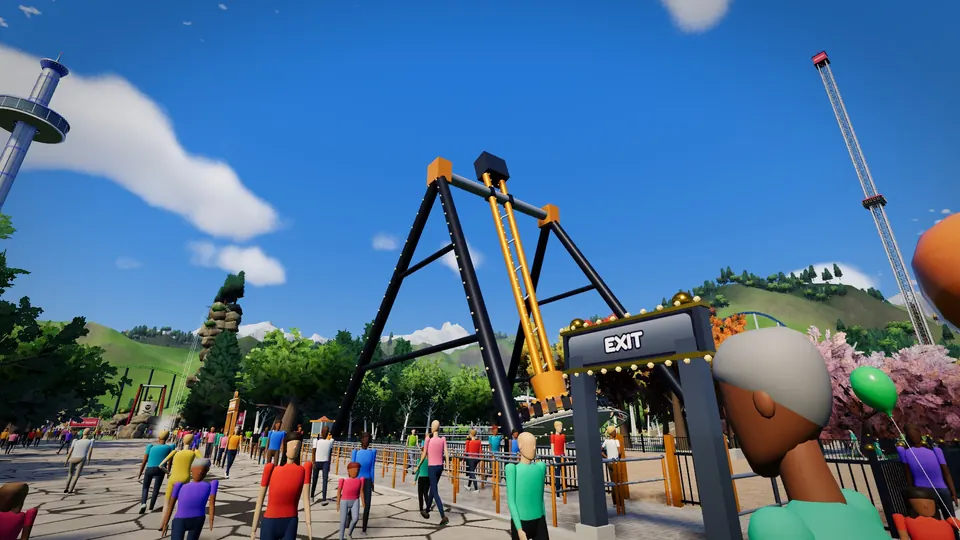
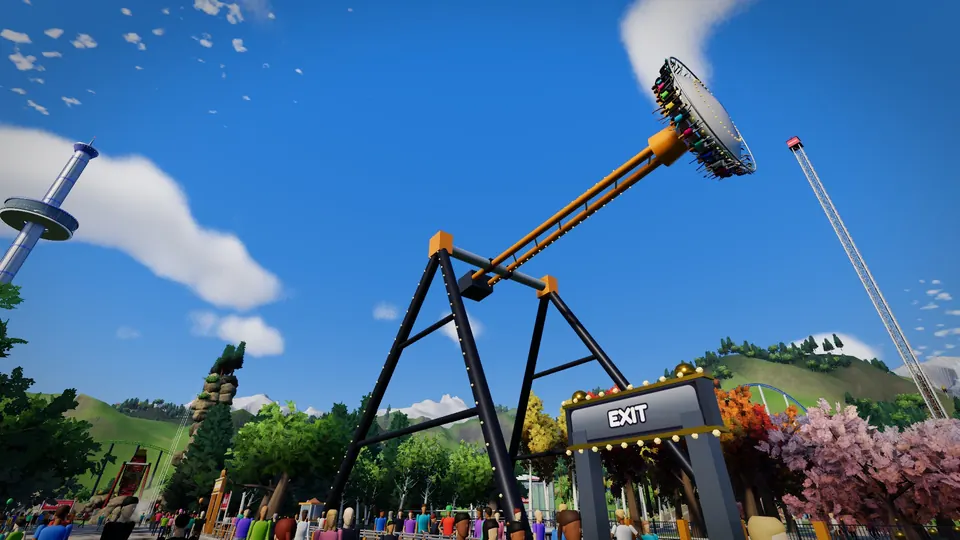
Publish the site

diff --git a/30k/index.html b/30k/index.html
@@ -420,7 +420,7 @@ footer a { color: #fff; }
     <button type="button" data-full="../play/img/crowd-1.webp"><img src="../play/img/crowd-1.webp" alt="A lake with palm trees and an observation wheel" loading="lazy"></button>
     <button type="button" data-full="../play/img/g-station.webp"><img src="../play/img/g-station-t.webp" alt="A coaster train cresting over a mountain lake at sunset, snowy hills behind" loading="lazy"></button>
     <button type="button" data-full="../play/img/g-fairywheel.webp"><img src="../play/img/g-fairywheel-t.webp" alt="The Fairy Wheel among blossom trees, guests walking up the path" loading="lazy"></button>
-    <button type="button" data-full="../play/img/g-frisbee.webp"><img src="../play/img/g-frisbee-t.webp" alt="Guests crowding the plaza in front of the Giant Frisbee" loading="lazy"></button>
+    <button type="button" data-full="../play/img/g-frisbee.webp"><img src="../play/img/g-frisbee-t.webp" alt="The Giant Frisbee swung high into the sky, full of riders, guests below" loading="lazy"></button>
     <button type="button" data-full="../play/img/g-carousel.webp"><img src="../play/img/g-carousel-t.webp" alt="The Grand Carousel turning, guests on the path in front" loading="lazy"></button>
     <button type="button" data-full="../play/img/g-swinger.webp"><img src="../play/img/g-swinger-t.webp" alt="The Wave Swinger spinning over the plaza" loading="lazy"></button>
     <button type="button" data-full="../play/img/g-castle.webp"><img src="../play/img/g-castle-t.webp" alt="A castle and a wooden coaster under snowy mountains at sunset" loading="lazy"></button>
@@ -594,7 +594,7 @@ else if ('IntersectionObserver' in window) {
   const MS = /*MS*/{"frame":1600,"tower":[445,331,1146,1604],"clip":{"x":335,"y":299,"width":796,"height":1300},"frames":788,"topFrame":379,"emptyHead":1.0666666666666667,"emptyTail":1.1}/*MS*/, W = /*WHEEL*/{"px":1946,"mPerPx":0.05712890625,"z":[-6.2,-4.2,-2.2,0.0,2.2,4.2,6.2],"capPx":686,"capMPerPx":0.008984375,"R":54.65,"N":48}/*WHEEL*/;
   const scene = document.getElementById('scene');
   if (!MS || !W || !('IntersectionObserver' in window)) { scene.classList.remove('wait'); return; }
-  const A = '../assets/', V = '?v=' + /*VER*/1794487637/*VER*/;
+  const A = '../assets/', V = '?v=' + /*VER*/1794488044/*VER*/;
   const ms = document.getElementById('ms'), wheel = document.getElementById('wheel');
   const pct = v => (v / MS.frame) * 100 + '%';
   let vid = null, shown = false, timer = 0;

diff --git a/index.html b/index.html
@@ -420,7 +420,7 @@ footer a { color: #fff; }
     <button type="button" data-full="../play/img/crowd-1.webp"><img src="../play/img/crowd-1.webp" alt="A lake with palm trees and an observation wheel" loading="lazy"></button>
     <button type="button" data-full="../play/img/g-station.webp"><img src="../play/img/g-station-t.webp" alt="A coaster train cresting over a mountain lake at sunset, snowy hills behind" loading="lazy"></button>
     <button type="button" data-full="../play/img/g-fairywheel.webp"><img src="../play/img/g-fairywheel-t.webp" alt="The Fairy Wheel among blossom trees, guests walking up the path" loading="lazy"></button>
-    <button type="button" data-full="../play/img/g-frisbee.webp"><img src="../play/img/g-frisbee-t.webp" alt="Guests crowding the plaza in front of the Giant Frisbee" loading="lazy"></button>
+    <button type="button" data-full="../play/img/g-frisbee.webp"><img src="../play/img/g-frisbee-t.webp" alt="The Giant Frisbee swung high into the sky, full of riders, guests below" loading="lazy"></button>
     <button type="button" data-full="../play/img/g-carousel.webp"><img src="../play/img/g-carousel-t.webp" alt="The Grand Carousel turning, guests on the path in front" loading="lazy"></button>
     <button type="button" data-full="../play/img/g-swinger.webp"><img src="../play/img/g-swinger-t.webp" alt="The Wave Swinger spinning over the plaza" loading="lazy"></button>
     <button type="button" data-full="../play/img/g-castle.webp"><img src="../play/img/g-castle-t.webp" alt="A castle and a wooden coaster under snowy mountains at sunset" loading="lazy"></button>
@@ -594,7 +594,7 @@ else if ('IntersectionObserver' in window) {
   const MS = /*MS*/{"frame":1600,"tower":[445,331,1146,1604],"clip":{"x":335,"y":299,"width":796,"height":1300},"frames":788,"topFrame":379,"emptyHead":1.0666666666666667,"emptyTail":1.1}/*MS*/, W = /*WHEEL*/{"px":1946,"mPerPx":0.05712890625,"z":[-6.2,-4.2,-2.2,0.0,2.2,4.2,6.2],"capPx":686,"capMPerPx":0.008984375,"R":54.65,"N":48}/*WHEEL*/;
   const scene = document.getElementById('scene');
   if (!MS || !W || !('IntersectionObserver' in window)) { scene.classList.remove('wait'); return; }
-  const A = '../assets/', V = '?v=' + /*VER*/1794487637/*VER*/;
+  const A = '../assets/', V = '?v=' + /*VER*/1794488044/*VER*/;
   const ms = document.getElementById('ms'), wheel = document.getElementById('wheel');
   const pct = v => (v / MS.frame) * 100 + '%';
   let vid = null, shown = false, timer = 0;

diff --git a/play/index.html b/play/index.html
@@ -420,7 +420,7 @@ footer a { color: #fff; }
     <button type="button" data-full="../play/img/crowd-1.webp"><img src="../play/img/crowd-1.webp" alt="A lake with palm trees and an observation wheel" loading="lazy"></button>
     <button type="button" data-full="../play/img/g-station.webp"><img src="../play/img/g-station-t.webp" alt="A coaster train cresting over a mountain lake at sunset, snowy hills behind" loading="lazy"></button>
     <button type="button" data-full="../play/img/g-fairywheel.webp"><img src="../play/img/g-fairywheel-t.webp" alt="The Fairy Wheel among blossom trees, guests walking up the path" loading="lazy"></button>
-    <button type="button" data-full="../play/img/g-frisbee.webp"><img src="../play/img/g-frisbee-t.webp" alt="Guests crowding the plaza in front of the Giant Frisbee" loading="lazy"></button>
+    <button type="button" data-full="../play/img/g-frisbee.webp"><img src="../play/img/g-frisbee-t.webp" alt="The Giant Frisbee swung high into the sky, full of riders, guests below" loading="lazy"></button>
     <button type="button" data-full="../play/img/g-carousel.webp"><img src="../play/img/g-carousel-t.webp" alt="The Grand Carousel turning, guests on the path in front" loading="lazy"></button>
     <button type="button" data-full="../play/img/g-swinger.webp"><img src="../play/img/g-swinger-t.webp" alt="The Wave Swinger spinning over the plaza" loading="lazy"></button>
     <button type="button" data-full="../play/img/g-castle.webp"><img src="../play/img/g-castle-t.webp" alt="A castle and a wooden coaster under snowy mountains at sunset" loading="lazy"></button>
@@ -594,7 +594,7 @@ else if ('IntersectionObserver' in window) {
   const MS = /*MS*/{"frame":1600,"tower":[445,331,1146,1604],"clip":{"x":335,"y":299,"width":796,"height":1300},"frames":788,"topFrame":379,"emptyHead":1.0666666666666667,"emptyTail":1.1}/*MS*/, W = /*WHEEL*/{"px":1946,"mPerPx":0.05712890625,"z":[-6.2,-4.2,-2.2,0.0,2.2,4.2,6.2],"capPx":686,"capMPerPx":0.008984375,"R":54.65,"N":48}/*WHEEL*/;
   const scene = document.getElementById('scene');
   if (!MS || !W || !('IntersectionObserver' in window)) { scene.classList.remove('wait'); return; }
-  const A = '../assets/', V = '?v=' + /*VER*/1794487637/*VER*/;
+  const A = '../assets/', V = '?v=' + /*VER*/1794488044/*VER*/;
   const ms = document.getElementById('ms'), wheel = document.getElementById('wheel');
   const pct = v => (v / MS.frame) * 100 + '%';
   let vid = null, shown = false, timer = 0;
